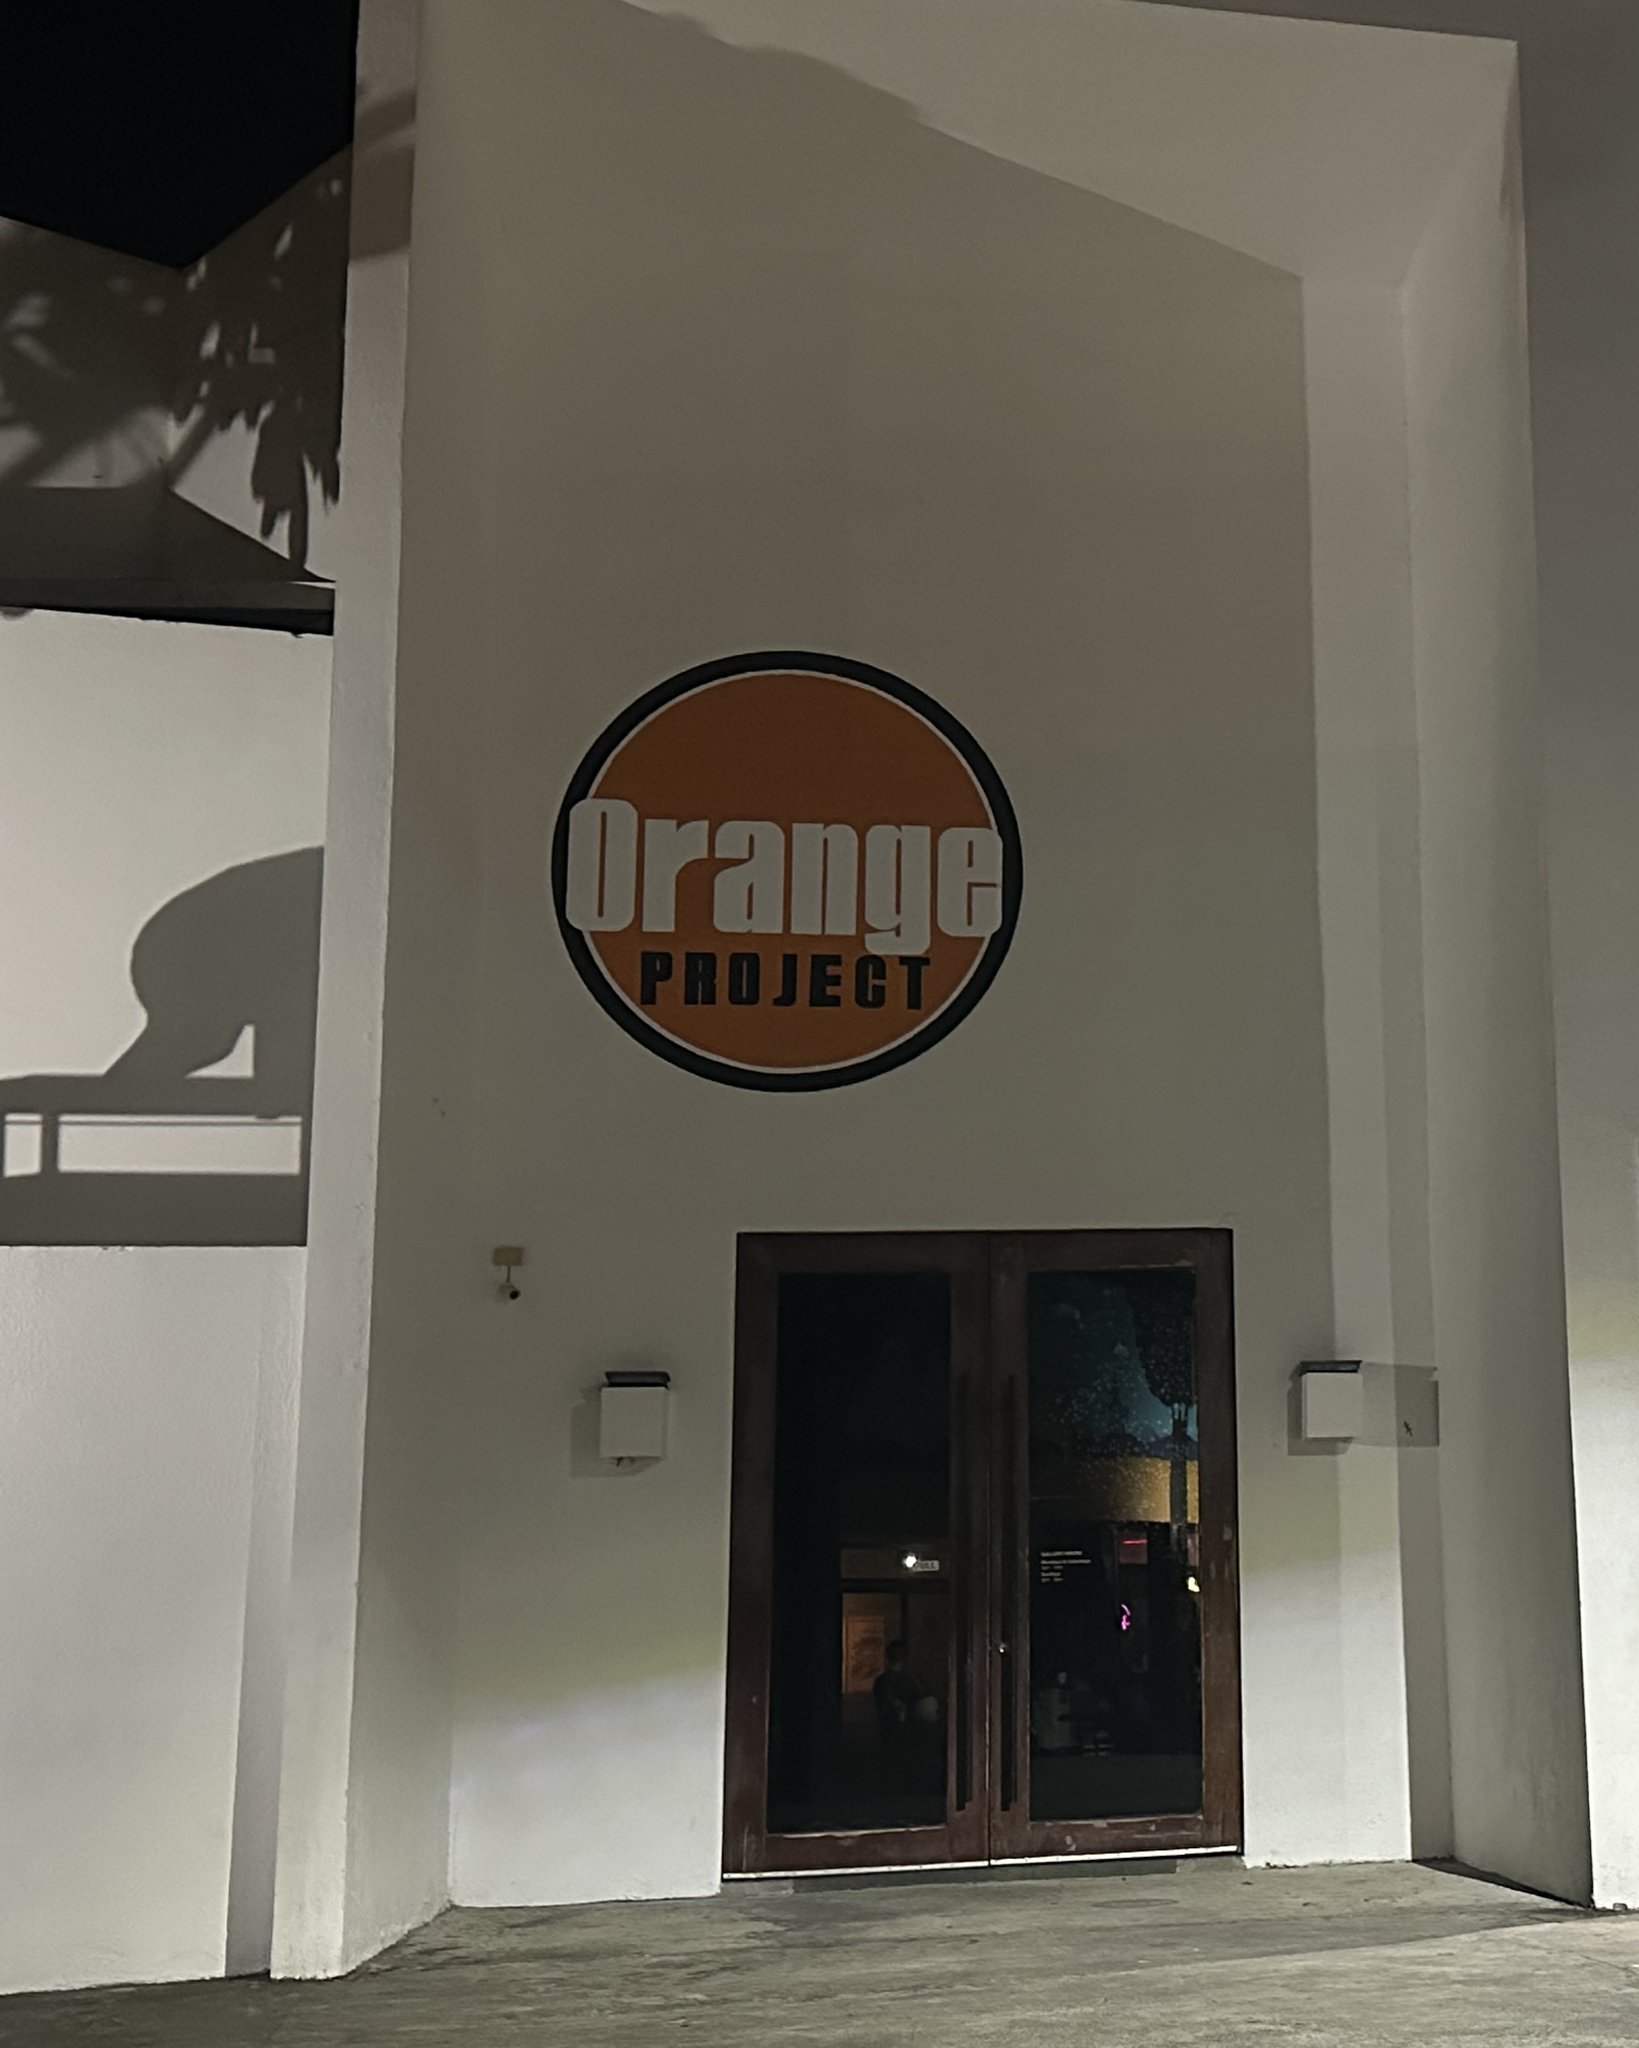
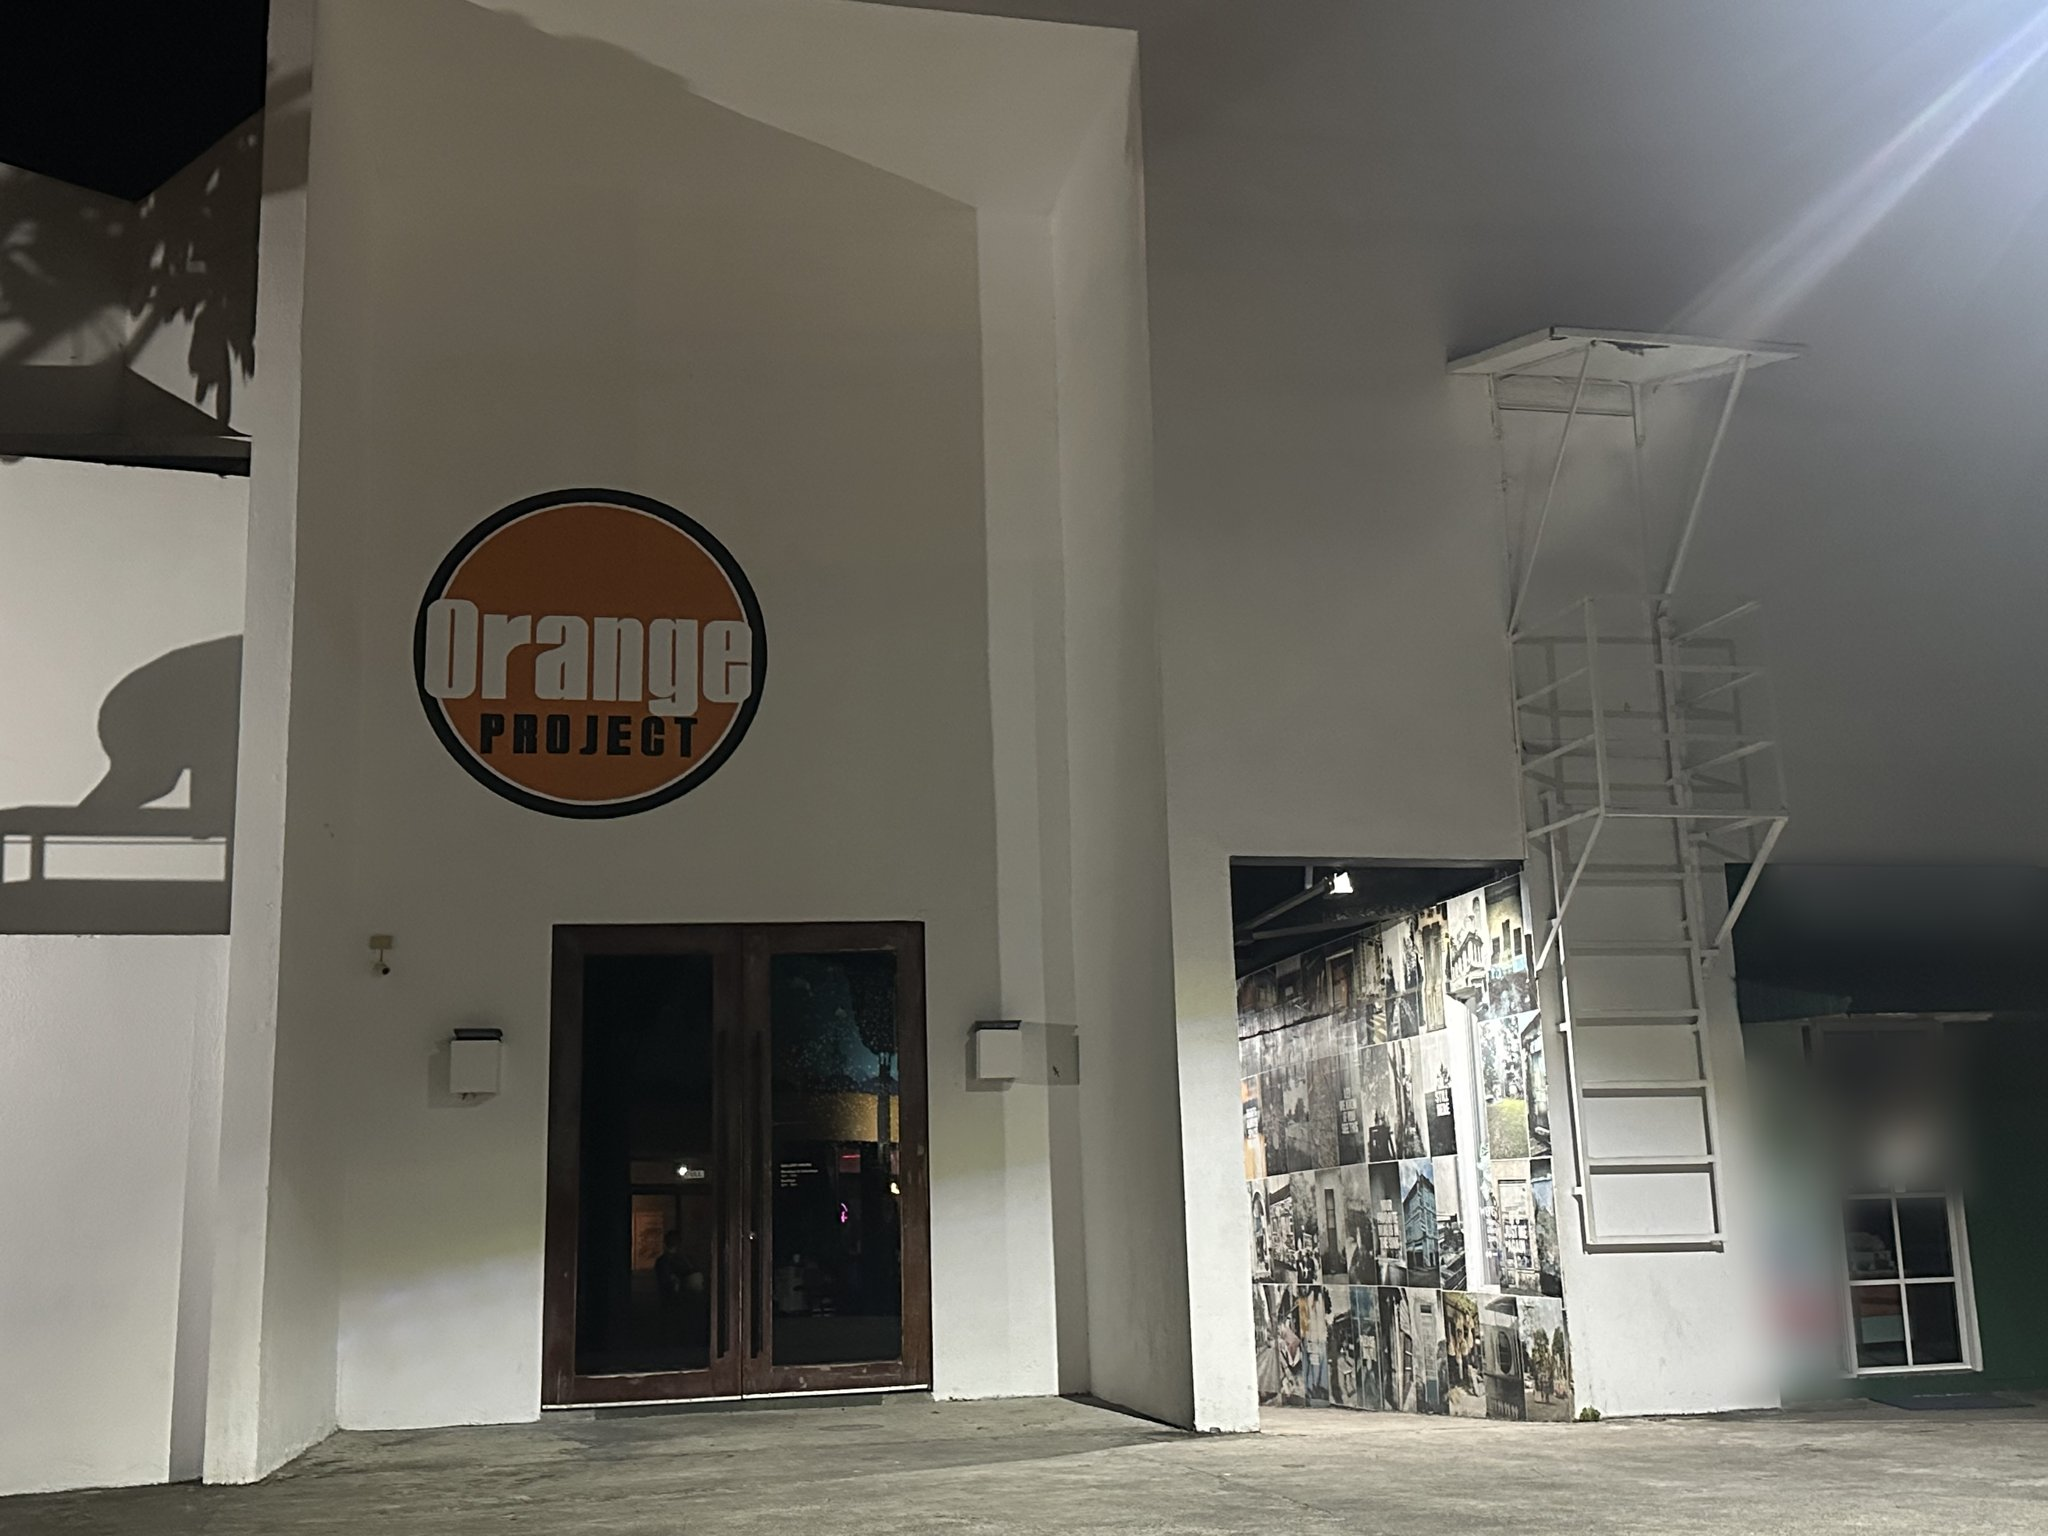
docs: use the full Orange Project exterior with the neighbouring shop's name blurred (#107)
Replace the facade crop with the full frame; blur the neighbouring shop's
sign, standing banner and door poster. Metadata removed.

diff --git a/docs/destination-image-sources.md b/docs/destination-image-sources.md
@@ -16,7 +16,7 @@ verifiable rights was found.
 | San Sebastian Cathedral | ✅ Approved | [Bacolod Cathedral Facade.jpg](https://commons.wikimedia.org/wiki/File:Bacolod_Cathedral_Facade.jpg) | Rauxilian | [CC BY-SA 4.0](https://creativecommons.org/licenses/by-sa/4.0) | Facade of the cathedral; people are small and incidental. |
 | The Negros Museum | ✅ Approved | [Negros Museum front (Gatuslao, Bacolod, Negros Occidental; 10-24-2022).jpg](https://commons.wikimedia.org/wiki/File:Negros_Museum_front_(Gatuslao,_Bacolod,_Negros_Occidental;_10-24-2022).jpg) | Patrickroque01 | [CC BY-SA 4.0](https://creativecommons.org/licenses/by-sa/4.0) | Front of the museum with its sign; no people. |
 | Negros Forest Park | ✅ Approved | [Hornbill](destination-images/negros-forest-park/RLSJR-2-hornbill.jpg) (+ [leopard cat](destination-images/negros-forest-park/RLSJR-1-leopard-cat.jpg)) | Roel Jr. S. Lumauag | Photographer permission | Team member's own photos, taken 2026-10-11 inside the park. |
-| Orange Project | ✅ Approved | [Exterior](destination-images/orange-project/RLSJR-3-orange-project-exterior.jpg) (cropped to the facade) | Roel Jr. S. Lumauag | Photographer permission | Team member's own photo, taken 2026-11-07; metadata (including GPS) removed. |
+| Orange Project | ✅ Approved | [Exterior](destination-images/orange-project/RLSJR-3-orange-project-exterior.jpg) (full frame; neighbouring shop's name blurred) | Roel Jr. S. Lumauag | Photographer permission | Team member's own photo, taken 2026-11-07; metadata (including GPS) removed. |
 | Capitol Park and Lagoon | ✅ Approved | [Capitol Lagoon Bacolod City Philippines.jpg](https://commons.wikimedia.org/wiki/File:Capitol_Lagoon_Bacolod_City_Philippines.jpg) | Kguirnela | [CC BY-SA 3.0](https://creativecommons.org/licenses/by-sa/3.0) | Lagoon with the Capitol behind it; no prominent logos or people. |
 | Negros Occidental Provincial Capitol | ✅ Approved | [Negros Occidental Provincial Capitol, Sep 2026.jpg](https://commons.wikimedia.org/wiki/File:Negros_Occidental_Provincial_Capitol,_Sep_2026.jpg) | Ralff Nestor Nacor | [CC BY-SA 4.0](https://creativecommons.org/licenses/by-sa/4.0) | Front facade; people only tiny in the distance. |
 | Cafetolyo Coffee Shop | ✅ Approved | [Counter](destination-images/cafetolyo/RLSJR-4-cafetolyo-counter.jpg) (+ [seating](destination-images/cafetolyo/RLSJR-10-cafetolyo-seating.jpg), faces blurred) | Roel Jr. S. Lumauag | Photographer permission | Team member's own photo, taken 2026-11-07; metadata (including GPS) removed. |
@@ -61,7 +61,7 @@ verifiable rights was found.
 ## Follow-up
 
 - **Roel photographed Orange Project, Cafetolyo, Arima and Calea himself on 2026-11-07** (added 2026-11-14). Seven of his photos are used and four were left out: the crowded Calea dining area (too many close, identifiable diners), a Calea storefront where cropping out passers-by left too little of the building, a menu close-up whose prices would go stale, and one dominated by a dress-code sign.
-- Two photos were cropped: Orange Project to its facade (excluding a wall of third-party photographs and a neighbouring shop's sign), Faces are blurred in two: every diner in the Calea entrance photo, and two seated customers in the Cafetolyo seating photo.
+- Blurring instead of cropping: in the Orange Project exterior, the neighbouring shop's name (sign, standing banner and door poster) is blurred; the gallery's own photo wall seen through its open doorway is incidental and kept. Faces are blurred in two: every diner in the Calea entrance photo, and two seated customers in the Cafetolyo seating photo.
 - Licenses can change on Commons. Recheck `source_page_url` before a production upload if it happens long after the access date.
 
 ## Automated check

diff --git a/docs/sprint-log.md b/docs/sprint-log.md
@@ -974,7 +974,7 @@ is a different operation and was not triggered. See the
 
 - Roel photographed **Orange Project, Cafetolyo, Arima and Calea** on 2026-11-07 (eleven iPhone photos). Seven were used and four left out:
   - left out: the crowded Calea dining area (too many close, identifiable diners); a Calea storefront where cropping out passers-by left too little of the building; a menu close-up with prices that would go stale; a frame dominated by a dress-code sign;
-  - cropped: Orange Project to its facade (excluding a wall of third-party photographs and a neighbouring shop's sign);
+  - **shop name blurred** (Roel's request, instead of cropping): the neighbouring shop's sign, standing banner and door poster in the full Orange Project exterior;
   - **faces blurred** (Roel's request): every diner in the full Calea entrance photo, and two seated customers in the Cafetolyo seating photo, which is now used as an extra image.
 - The originals carried **GPS coordinates**. The committed copies are resized to at most 2048 px and have all metadata removed (verified).
 - They are recorded as photographer-permission entries on `docs/s4-07-venue-photos`, so **all 10 locations now have a licensed or permitted image**.
